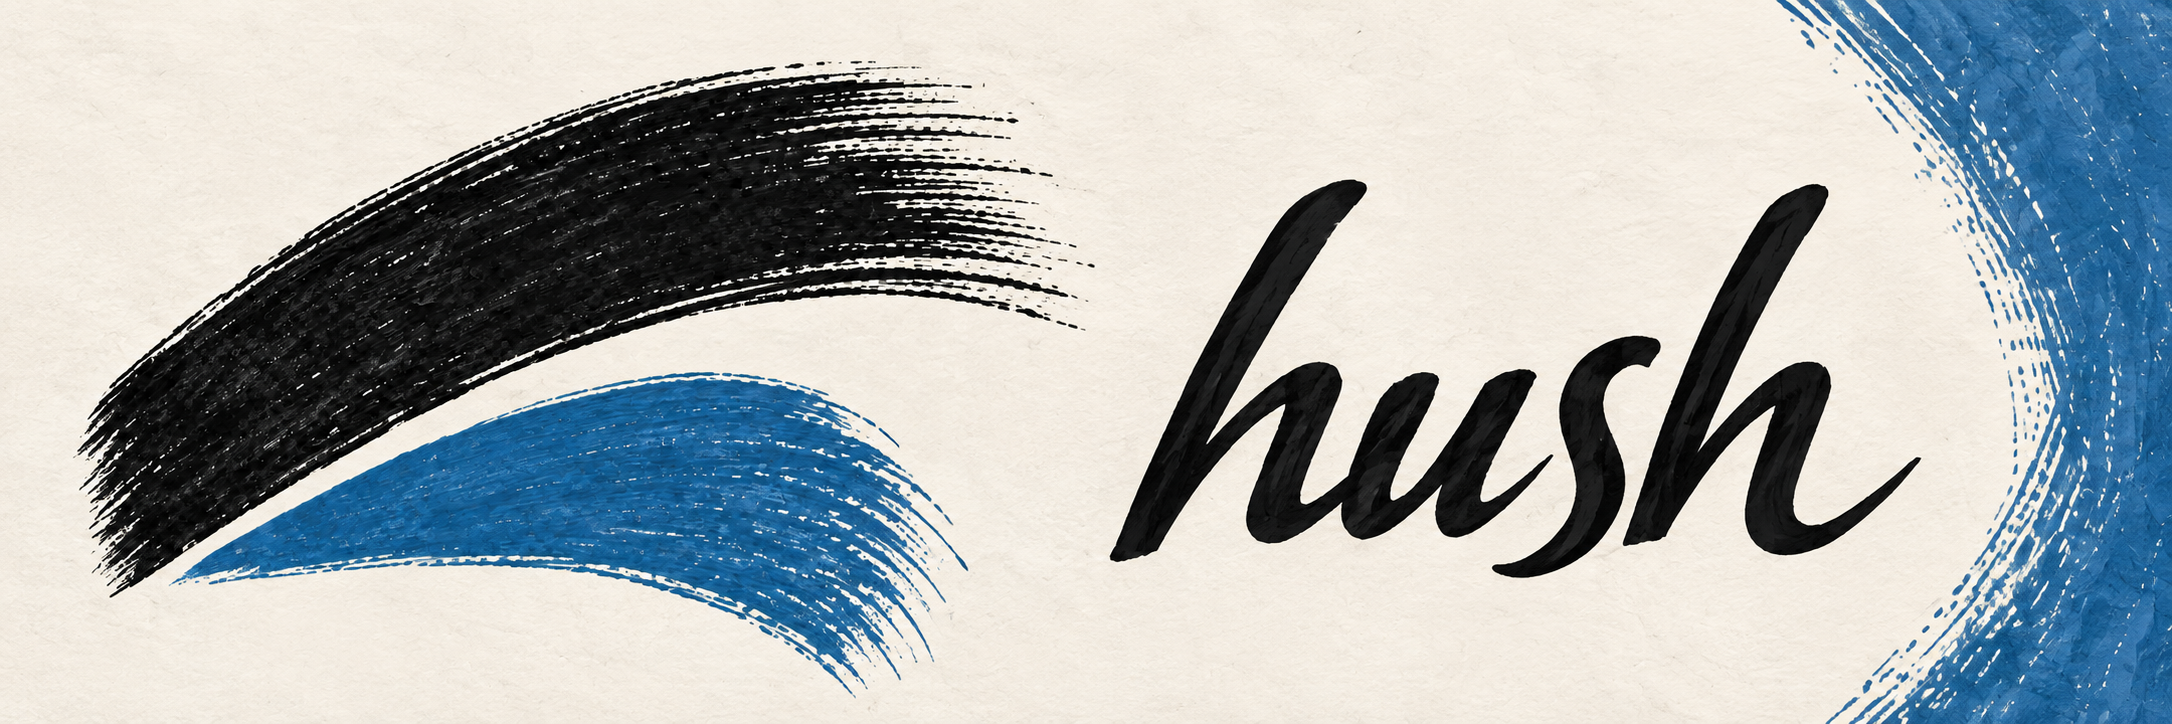
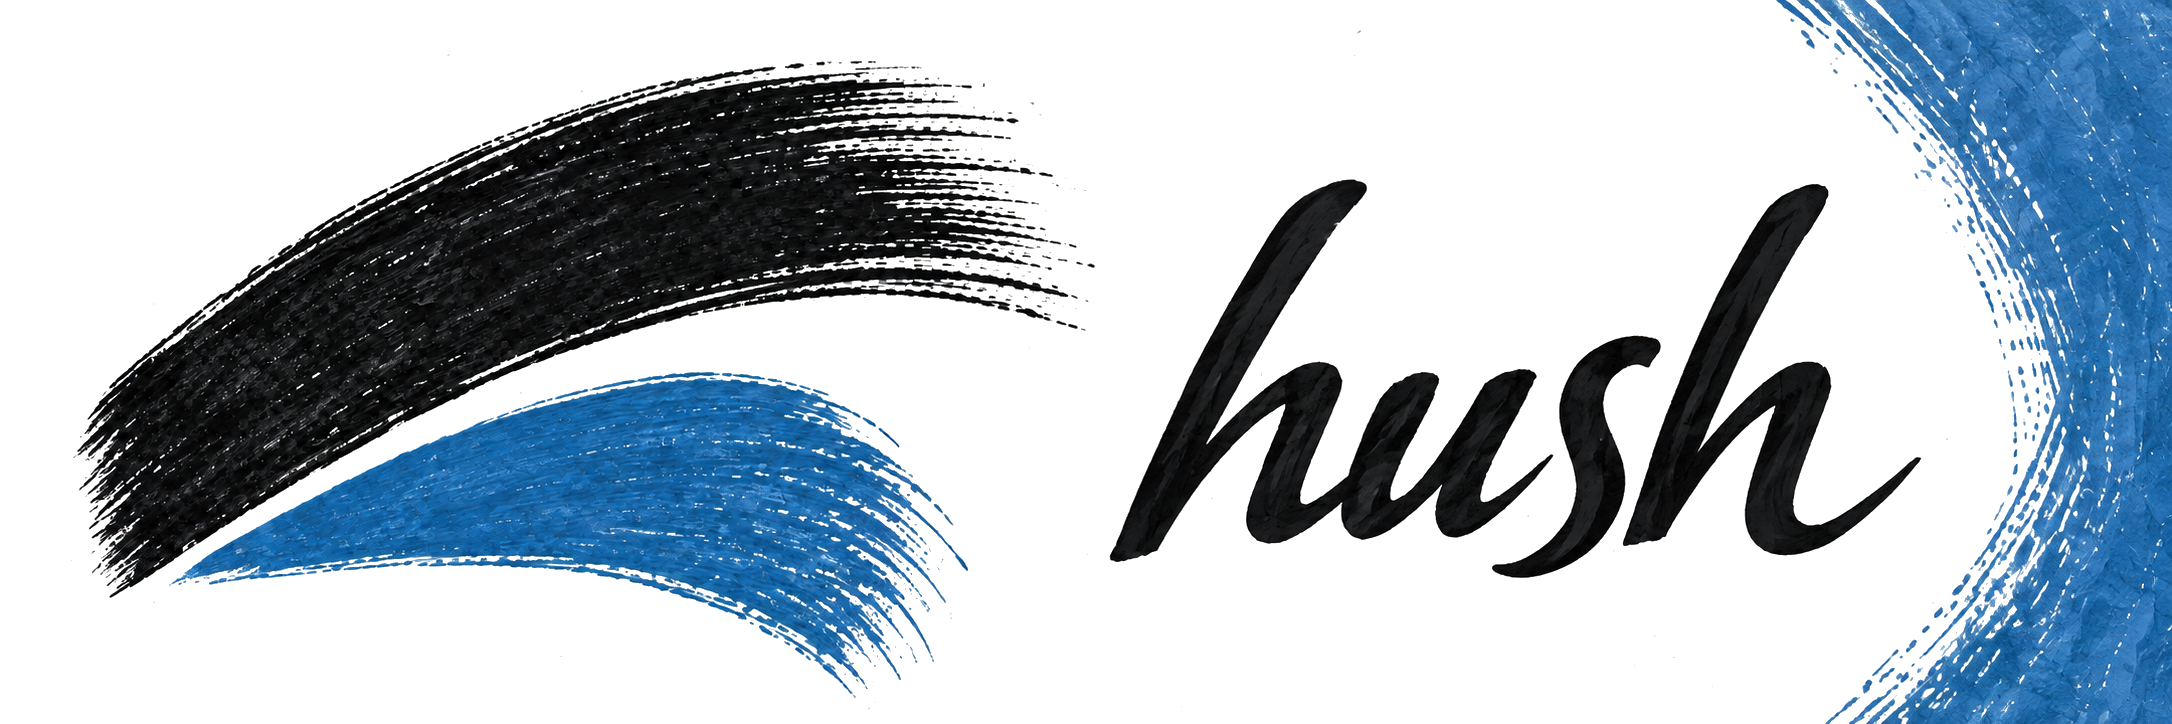
Restore product heroes and refine branding presentation

diff --git a/README.md b/README.md
@@ -16,6 +16,19 @@
 
 > **TL;DR** — Less narration while work happens. A short, useful answer when it is done.
 
+<!-- foundry:hero -->
+<p align="center"><img src="assets/hero.svg" alt="Hush original product visualization" width="700"></p>
+
+Original Claude Code benchmark visualization. These measurements describe the recorded Claude sessions, not Codex performance. [Evidence and methodology](https://github.com/V-Songbird/foundry/tree/main/docs/hush).
+
+<details>
+<summary>Watch the recorded Claude Code demo</summary>
+
+<p align="center"><img src="assets/demo.svg" alt="Recorded Claude Code demonstration of Hush" width="700"></p>
+
+</details>
+<!-- /foundry:hero -->
+
 <p align="center"><img src="assets/mascot.svg" alt="Ember quiets the speech bubbles and log pile, then returns to calm typing." width="700"></p>
 
 ## What is this?

diff --git a/CHANGELOG.md b/CHANGELOG.md
@@ -4,6 +4,10 @@ All notable changes to hush are documented here. Looking for a version
 number? It lives in the [foundry marketplace](https://github.com/V-Songbird/foundry)
 listing — that's why `plugin.json` here carries none.
 
+## 1.11.8 — 2026-09-09
+
+Restore the original product hero and recorded Claude demo with clear provenance. Use white light-theme banners.
+
 ## 1.11.7 — 2026-09-09
 
 New Tinta y oficio banners adapt to light and dark GitHub themes.
